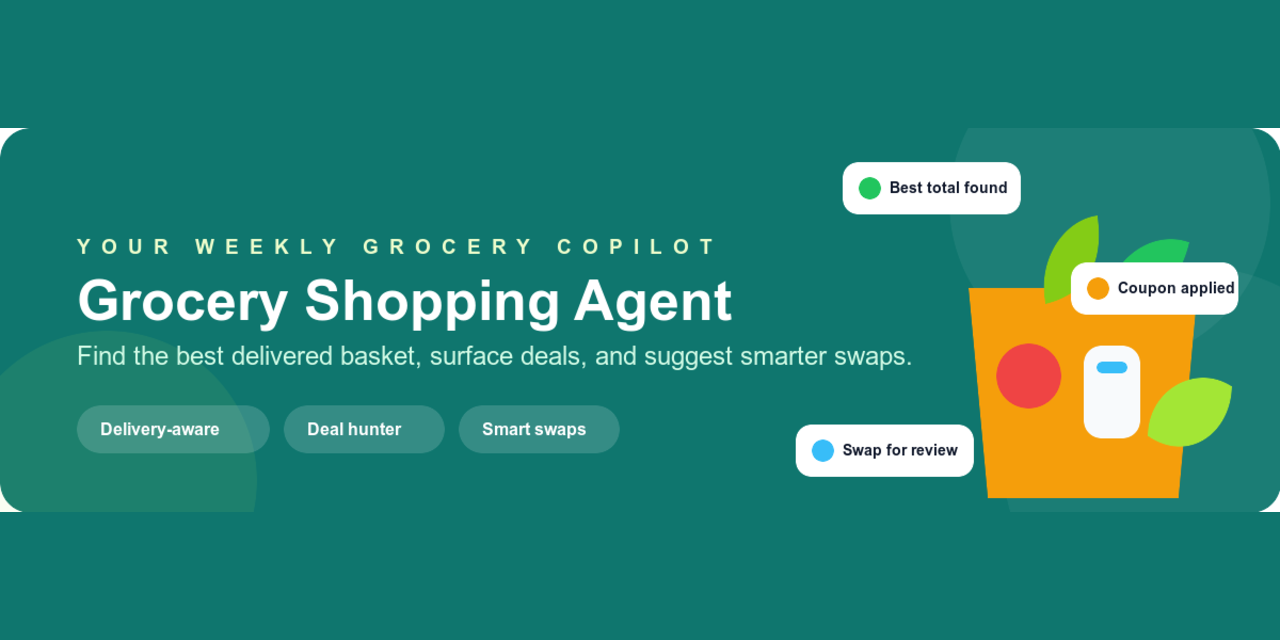
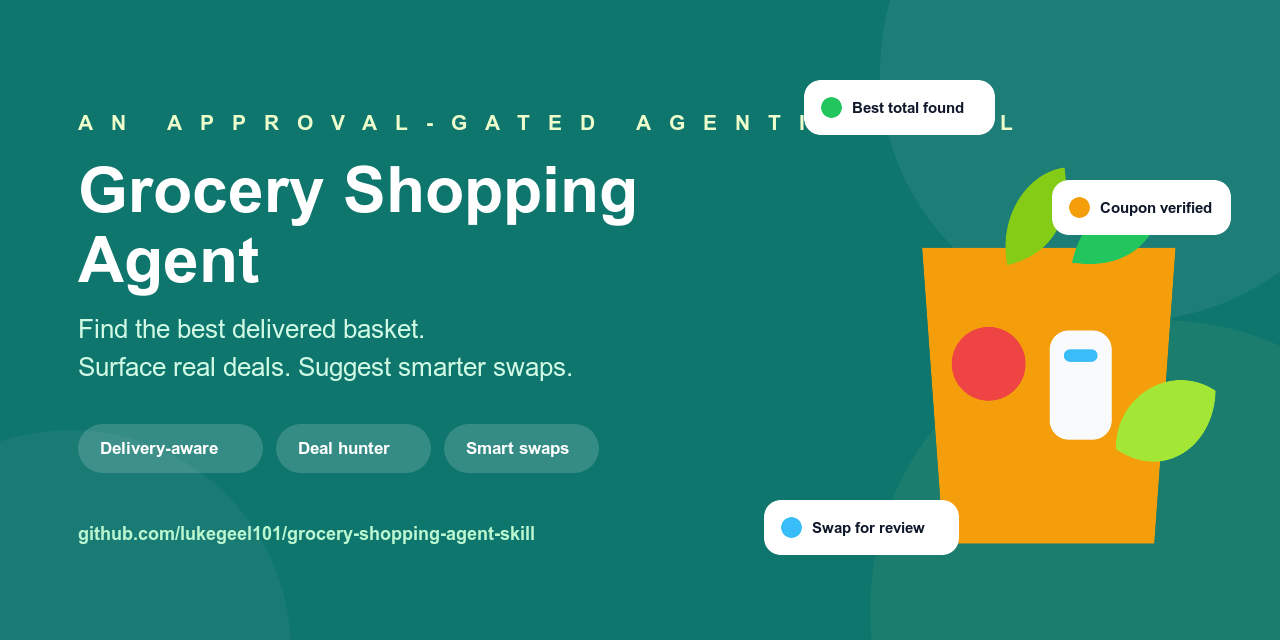
Add public launch automation and social preview

diff --git a/docs/gotchas.md b/docs/gotchas.md
@@ -83,3 +83,27 @@ Verified fix: inspect the command help, run the supported repository view comman
 Issue: the wide 1200 by 360 README hero crops poorly when reused directly as GitHub's approximately 2:1 social preview.
 
 Verified fix: render a separate 1280 by 640 PNG from a converter-stable SVG copy, replace unsupported gradients with matching solid palette colors, preserve the full hero inside a matching background, and visually verify the result before upload.
+
+## Fall back cleanly when the GitHub wrapper cache is unavailable
+
+Issue: `npx -y gh-axi` could not start because the local npm cache contained root-owned temporary files.
+
+Verified fix: use the already authenticated `gh` CLI for the same narrowly scoped GitHub operations, and verify each remote result through GitHub's API.
+
+## Verify current action versions with network access
+
+Issue: the first action-version lookup could not reach GitHub from the restricted environment.
+
+Verified fix: grant network access for the GitHub task, query the official action repositories, and pin the workflow to the current `actions/checkout@v7` and `actions/setup-python@v7` major versions.
+
+## Use explicit percentage coordinates for social-card gradients
+
+Issue: ImageMagick interpreted unitless SVG gradient endpoints differently and rendered the first social-preview background nearly black.
+
+Verified fix: replace conversion-sensitive gradient fills with calibrated solid brand colors, render the PNG again, and visually inspect the final 1280 by 640 asset.
+
+## Preserve concurrent public-presentation improvements
+
+Issue: the remote repository gained a presentation commit while the local CI and social-preview commit was being prepared, so the first push was correctly rejected and the rebase found overlapping social assets.
+
+Verified fix: fetch and inspect the remote commit, retain its README copy and cross-repository links, keep the newer 1280 by 640 social card, combine both gotcha records, rerun validation, and only then push the integrated history.

diff --git a/README.md b/README.md
@@ -5,7 +5,7 @@
   <p>
     <img src="https://img.shields.io/badge/mode-review%20only-16a34a?style=for-the-badge" alt="Review only">
     <img src="https://img.shields.io/badge/works%20with-ChatGPT%20%2B%20Claude-0f766e?style=for-the-badge" alt="Works with ChatGPT and Claude">
-    <img src="https://img.shields.io/badge/tests-5%20passing-65a30d?style=for-the-badge" alt="Five passing tests">
+    <a href="https://github.com/lukegeel101/grocery-shopping-agent-skill/actions/workflows/ci.yml"><img src="https://github.com/lukegeel101/grocery-shopping-agent-skill/actions/workflows/ci.yml/badge.svg" alt="CI status"></a>
   </p>
 </div>
 
